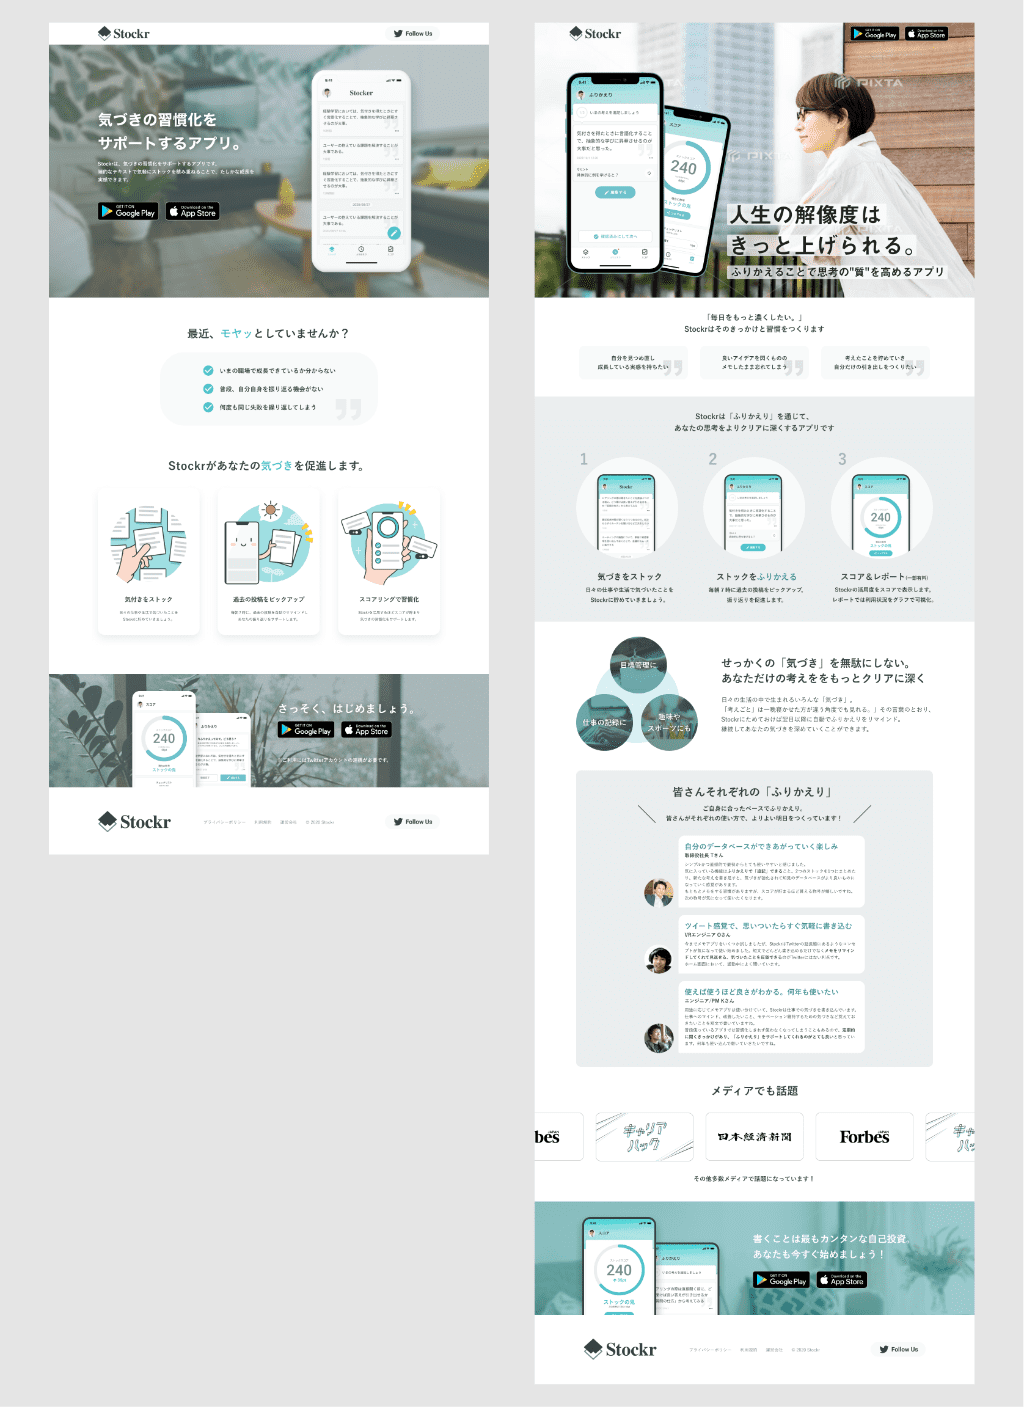
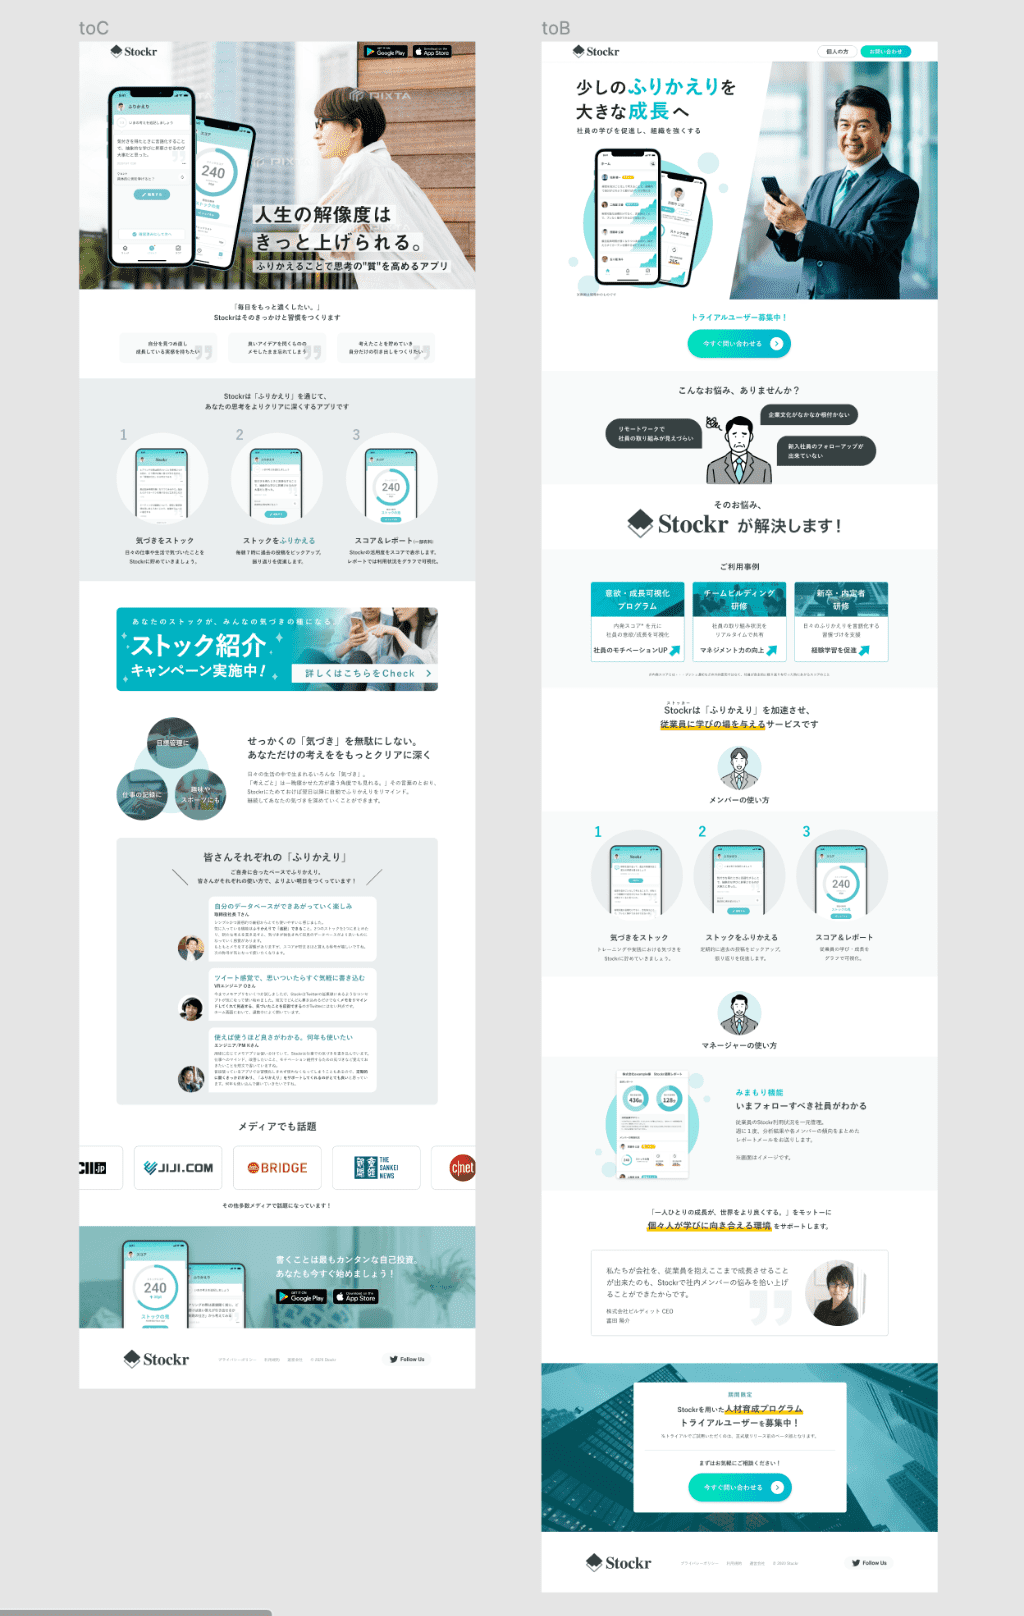
更新

diff --git a/src/components/articles/Stockr10.vue b/src/components/articles/Stockr10.vue
@@ -30,10 +30,7 @@
     <h3 class="title title--sub">1-2. ペルソナ像の見直し</h3>
     <p class="description">
       ユーザーインタビューや実際のユーザーの動向をもとに、ペルソナ像を見直しました。<br>
-      リリース前のペルソナ像は「日々の生活が漠然としており、メモする習慣がない」ユーザーでしたが、見直した結果ペルソナは<b>「生活の改善に関心があり、メモツールは良いものを模索している」</b>ユーザーであるという変化がありました。<br>
-      <span class="link">
-        <a href="https://www.figma.com/file/gZ8HENIkSCekXn0truBnnf/Stokr%E3%83%9A%E3%83%AB%E3%82%BD%E3%83%8A?node-id=0%3A1" target="_blank" class="link__button">新ペルソナ</a>
-      </span>
+      リリース前のペルソナ像は「日々の生活が漠然としており、メモする習慣がない」ユーザーでしたが、見直した結果ペルソナは<b>「生活の改善に関心があり、メモツールは良いものを模索している」</b>ユーザーであるという変化がありました。
     </p>
 
     <h2 class="title">2. プレミアム機能のデザイン</h2>
@@ -62,10 +59,9 @@
     <h3 class="title title--sub">3-1. LPのリニューアル</h3>
     <p class="description">
       ユーザーインタビューの結果をまとめ分析した結果、気づきの投稿よりもその<b>ふりかえりがStockrの本質的価値</b>だとわかりました。<br>
-      そこで、キャッチコピーやヒーローエリアを見直し、LPを全面的にリニューアルしました。マーケティングについて外部の方に入っていただき、相談しながらデザインを詰めていきました。
+      そこで、キャッチコピーやヒーローエリアを見直し、LPを全面的にリニューアルしました。STUDIOで自らページを作成し、公開しました。<br>
+      CMS機能を用いてキャンペーンごとにページを出し分けることで、掲載媒体ごとに流入が取れるようにしています。
       <img class="image image--w80" src="@/assets/image/stockr/landing-page.png" alt="LP" loading="lazy">
-      ヒーローエリアには「ふりかえり」を想起しやすい人物写真を購入して使用。ユーザーボイスを掲載することで、安心感を出しました。<br>
-      デザイン作成後 STUDIOで自らページを作成し、約2日で公開しました。CMS機能を用いてキャンペーンごとにページを出し分けることで、掲載媒体ごとに流入が取れるようにしています。
     </p>
 
     <h3 class="title title--sub">3-2. ASO対策</h3>

diff --git a/src/components/articles/Core.vue b/src/components/articles/Core.vue
@@ -16,16 +16,6 @@
       </span>
     </p>
 
-    <h2 class="title">主な機能</h2>
-    <p class="description">
-      <b>① 問いかけ</b><br>
-      毎週金曜日に、その週を振り返るための質問を配信。言語化することで、本人のなかにストックが生まれます。<br>
-      <b>②フォローアップ</b><br>
-      上司や人事は受講生の取り組みを把握し、適切なタイミングでアドバイスをすることで成長を促進します。<br>
-      <b>③分析レポート</b><br>
-      投稿データをもとにレポートを作成。現場の取り組みが可視化され、タレントマネジメントにも繋がります。
-    </p>
-
     <h2 class="title">取り組み1. ホーム画面のリデザイン・実装</h2>
     <p class="description">
       旧ホーム画面ではCoreの全体像や自分の役割が把握しづらく、Coreにアクセスしても次のアクションが分からないという課題がありました。そこで課題感を洗い出し、ユーザーの導線や情報設計、UXライティングを見直しました。<br>

diff --git a/src/components/articles/Lobi.vue b/src/components/articles/Lobi.vue
@@ -9,11 +9,7 @@
     <h2 class="title">サービス概要</h2>
     <p class="description">
       Lobiは、日本最大級のゲームコミュニティです。アクティブブループ数は16万を突破。<br>
-      肌の合うコミュニティが見つかり、共通の話題で盛り上がれる「だべり場」を目指してサービスの運用・新規開発を行っていました。<br>
-      他にも Lobi Tournament(現Tonamel)との連携やゲームデベロッパー公認のオフ会の開催を通じて、ゲームの新たな楽しみ方をユーザーに提供しています。
-      <span class="link">
-        <a href="https://web.lobi.co/" target="_blank" class="link__button">Webサイト</a>
-      </span>
+      肌の合うコミュニティが見つかり、共通の話題で盛り上がれる「だべり場」を目指してサービスの運用・新規開発を行っていました。
     </p>
 
     <h2 class="title">全面リニューアル</h2>

diff --git a/src/components/articles/LobiTournament.vue b/src/components/articles/LobiTournament.vue
@@ -9,7 +9,6 @@
     <h2 class="title">サービス概要</h2>
     <p class="description">
       Lobi Tournament(現Tonamel)は、誰でも簡単にゲーム大会を開催・運営できる国内有数のトーナメント・プラットフォームです。<br>
-      スコアの自動計算や対戦相手とのチャット機能などトーナメントに必要な機能が揃っているので、オンラインでもスムーズに大会を進行できます。<br>
       2017年にサービスを開始し、参加総数は10万人を突破。<br>
       個人向けに基本無料でサービスを提供しているほか、複数の大手ゲーム会社と提携して1000人超が同時接続するオンライン大会を開催しています。
       <span class="link">
